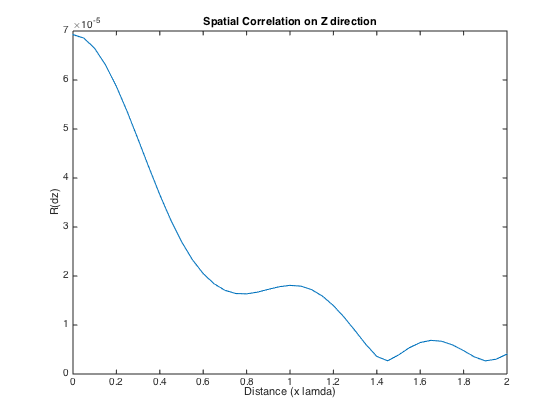
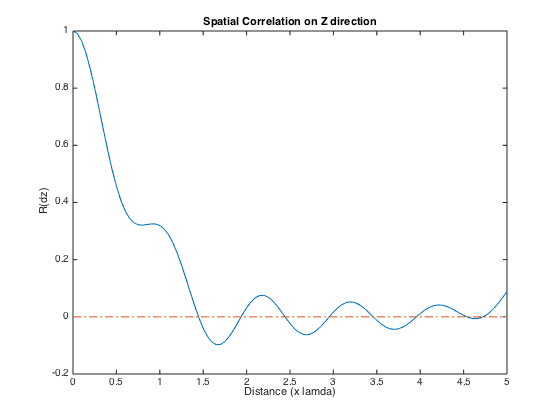
Correct the spatial correlation
Correct the spatial correlation : not the amplitude but the real part
of the correlation should be plotted.

diff --git a/functions/calc_spatial_corr_Z.m b/functions/calc_spatial_corr_Z.m
@@ -1,7 +1,7 @@
 function [Rdz] = calc_spatial_corr_Z(a_n, flags, cur_tap)
 
 lamda = 3e8 / flags.f_c; %wavelength of the carrier 
-flags.dz_list = [0:lamda/20:lamda*2];
+flags.dz_list = [0:lamda/20:lamda*5];
 Rdz = zeros(1, length(flags.dz_list));
 
 beta_s = 2*pi/lamda;
@@ -29,8 +29,17 @@ for idz=1:length(flags.dz_list)
     Rdz(idz)=Rdz(idz) + cur_rdz;
 end
 
-figure;plot(flags.dz_list/lamda,abs(Rdz));title('Spatial Correlation on Z direction');
+%Normalize
+Rdz_to_plot = real(Rdz);
+coef = 1/Rdz_to_plot(1);
+Rdz_to_plot = Rdz_to_plot .* coef;
+
+figure(1);plot(flags.dz_list/lamda,real(Rdz_to_plot));title('Spatial Correlation on Z direction');
 xlabel('Distance (x lamda)');ylabel('R(dz)');
+hold on
+
+ref_line = zeros(1,length(flags.dz_list));
+plot(flags.dz_list/lamda,ref_line, '-.')
 
 end
 
